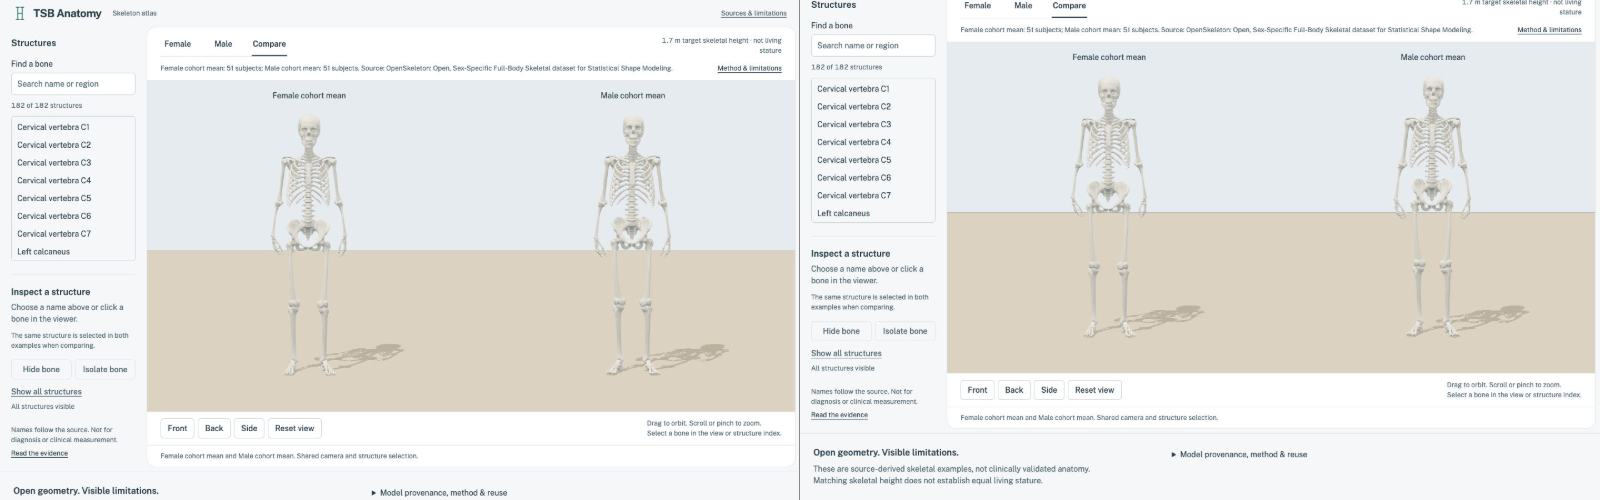
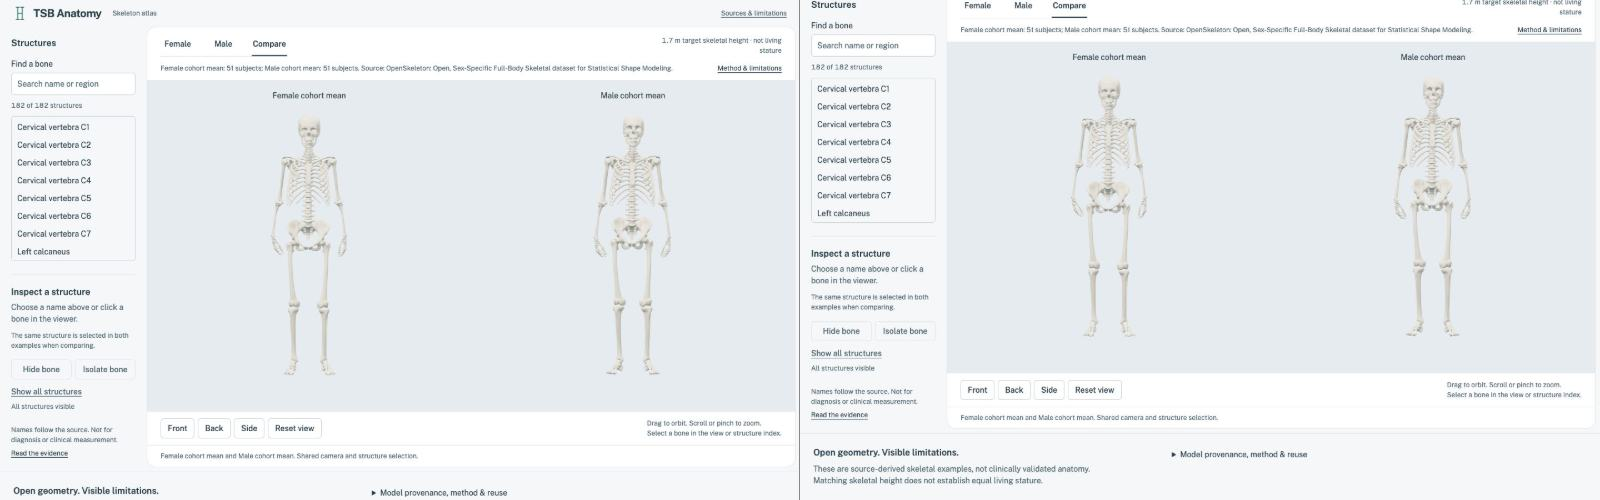
Remove visible ground and shadows while preserving standing pose

Changed region(s): [[0.0938, 0.48, 0.5, 0.84], [0.5938, 0.42, 1.0, 0.75]]

diff --git a/src/main.js b/src/main.js
@@ -85,44 +85,17 @@ function createRenderer() {
   renderer.outputColorSpace = THREE.SRGBColorSpace;
   renderer.toneMapping = THREE.ACESFilmicToneMapping;
   renderer.toneMappingExposure = 1.1;
-  renderer.shadowMap.enabled = true;
-  renderer.shadowMap.type = THREE.PCFSoftShadowMap;
   renderer.domElement.tabIndex = 0;
   renderer.domElement.setAttribute('aria-label', 'Interactive skeleton. Arrow keys orbit; plus and minus zoom. Use the structure list to select bones without a pointer.');
   renderer.domElement.setAttribute('aria-describedby', 'camera-help viewer-status');
   ui.host.append(renderer.domElement);
   scene = new THREE.Scene();
-  // Presentation ground is not anatomy and never enters the bone picker/inventory.
-  const earth = new THREE.Mesh(
-    new THREE.PlaneGeometry(8, 8),
-    new THREE.MeshStandardMaterial({ color: '#aa9c84', roughness: 1, metalness: 0, side: THREE.DoubleSide }),
-  );
-  earth.name = 'earth-ground';
-  earth.rotation.x = -Math.PI / 2;
-  earth.position.y = state.manifest.pose.groundY;
-  earth.receiveShadow = true;
-  scene.add(earth);
-  // A ground-level outline remains legible in exact edge-on orthographic presets.
-  const groundEdge = new THREE.LineLoop(
-    new THREE.BufferGeometry().setFromPoints([
-      new THREE.Vector3(-4, earth.position.y, -4), new THREE.Vector3(4, earth.position.y, -4),
-      new THREE.Vector3(4, earth.position.y, 4), new THREE.Vector3(-4, earth.position.y, 4),
-    ]),
-    new THREE.LineBasicMaterial({ color: '#81745e' }),
-  );
-  scene.add(groundEdge);
   camera = new THREE.OrthographicCamera(-1, 1, 1, -1, .01, 100);
   camera.position.set(0, .85, 5);
   scene.add(new THREE.HemisphereLight('#ffffff', '#8799a6', 2.5));
   const key = new THREE.DirectionalLight('#fff6e6', 3.1);
   key.position.set(-2, 7, 3);
   key.target.position.set(0, .75, 0);
-  key.castShadow = true;
-  key.shadow.mapSize.set(2048, 2048);
-  Object.assign(key.shadow.camera, { left: -1.8, right: 1.8, top: 2, bottom: -1.8, near: .1, far: 12 });
-  key.shadow.bias = -.00005;
-  key.shadow.normalBias = .001;
-  key.shadow.camera.updateProjectionMatrix();
   scene.add(key.target);
   scene.add(key);
   const fill = new THREE.DirectionalLight('#e3efff', 1.8);
@@ -364,8 +337,6 @@ async function loadModel(meta) {
     node.userData.structureId = id;
     (Array.isArray(node.material) ? node.material : [node.material]).forEach((material) => oldMaterials.add(material));
     node.material = boneMaterial;
-    node.castShadow = true;
-    node.receiveShadow = true;
   });
   if (!meshes.length) throw new Error(`${meta.label} contains no bone meshes.`);
   oldMaterials.forEach((material) => material.dispose());
@@ -494,7 +465,6 @@ Object.defineProperty(window, '__atlas', {
     ready: state.ready, mode: state.mode, selected: state.selected,
     loadedModels: [...state.models.keys()], hidden: [...state.hidden], isolated: state.isolated,
     structures: state.structures.size, failures: [...state.failures],
-    groundY: scene?.getObjectByName('earth-ground')?.position.y,
     meshes: Object.fromEntries([...state.models].map(([id, model]) => [id, model.meshes.length])),
     visibleMeshes: Object.fromEntries([...state.models].map(([id, model]) => [id, model.root.visible ? model.meshes.filter((mesh) => mesh.visible).length : 0])),
   }),

diff --git a/README.md b/README.md
@@ -20,7 +20,7 @@ npm run dev
 The repository includes the generated models; viewing does not require Python or the raw CT-derived dataset. The initial load includes both detailed skeletons.
 
 - Switch between female, male and side-by-side comparison.
-- Drag to orbit and scroll to zoom. The default/reset view looks slightly down onto an earth-toned ground surface with cast shadows. Front/back/side remain exact orthographic inspection views, with a ground-level outline visible edge-on.
+- Drag to orbit and scroll to zoom. The default/reset view is slightly elevated; front/back/side are exact orthographic inspection views. Skeletons appear against the plain slate background, without a visible floor, ground outline or cast shadows.
 - Search/select a structure or click its geometry.
 - Hide a structure, isolate it, or restore all structures. Selection and visibility are shared across comparison views.
 - Focus the canvas and use arrow keys to orbit, `+`/`-` to zoom, and `Home` for the front view. Every structure is also selectable without the canvas.
@@ -36,7 +36,7 @@ The inventory covers the combined skull, mandible, vertebrae, ribs, sternum, sho
 
 Known topology findings in both means: `HandScaphoid_L`, `HandScaphoid_R`, `Head` and `Sacrum` are not watertight; `Femur_L` and `Femur_R` have inconsistent face winding. These are review targets, not silently repaired surfaces. Double-sided viewing does not fix the source topology. Sternum face **3731** (zero-based source face index) was removed only after verifying exactly zero area in all 51 contributing specimens of each sex.
 
-The viewer defaults to a **grounded standing display pose**: relaxed shoulder girdles, arms at sides, and both feet supported at the heel and medial/lateral forefoot. Bones articulate rigidly; arches are not flattened. One final whole-body uniform scale restores the 1.70 m skeletal height after planting the feet. These are estimated pose adjustments, not a validated neutral or weight-bearing stance. The original source-derived means remain unchanged in `data/derived/*.npz`.
+The viewer retains the **standing display pose**: relaxed shoulder girdles, arms at sides, and level heels/forefeet aligned to an invisible mathematical plane at Y=0. No earth or floor surface is rendered. Bones articulate rigidly; arches are not flattened. One whole-body uniform scale restores the 1.70 m skeletal height after foot placement. These are estimated pose adjustments, not a validated neutral or weight-bearing stance. The original source-derived means remain unchanged in `data/derived/*.npz`.
 
 ## How the averages are made
 
@@ -144,6 +144,6 @@ Preserve the reproducible source-derived baseline. A correction to an educationa
 
 ## Verified implementation
 
-The full source-to-mean pipeline passed in [generation run 40907748961](https://github.com/latentwill/TSB-Anatomy/actions/runs/40907748961), and the earlier arm-rig pipeline passed in [run 40987606969](https://github.com/latentwill/TSB-Anatomy/actions/runs/40987606969). The preserved means were subsequently re-exported in the grounded standing pose. Local asset verification and all ten geometric regression tests passed; exported heel/forefoot gaps are zero within float32 export precision. Production-browser inspection confirmed visible earth-ground contact, side-view foot/arch clearance and desktop/mobile presentation. Earlier checks covered picking, search, visibility controls and partial-load failure handling.
+The complete standing-pose generation pipeline passed in [run 40991422437](https://github.com/latentwill/TSB-Anatomy/actions/runs/40991422437). Asset verification and all ten geometric regression tests passed; heel/forefoot support gaps are zero within float32 export precision. Removing the displayed earth plane was a viewer-only change: models, joint transforms, height and references were unchanged. Production-browser checks confirmed the plain-background standing and side views, 182 structures per model, and isolate/restore behavior without runtime errors.
 
 The viewer follows the requested [Taste Skill](https://github.com/leonxlnx/taste-skill) app workflow. Its final production inspection reported **0 failures and 0 warnings** at 1440, 768 and 390 pixels; see [DESIGN.md](DESIGN.md) and `.taste-skill/inspect/`. The production build retains a Three.js bundle-size advisory. These checks establish software behavior, not clinical validity.

diff --git a/DESIGN.md b/DESIGN.md
@@ -27,8 +27,6 @@ Data/job inventory: (1) two sex-specific model entries; (2) manifest subject cou
 | Error ink | `#873c2b` |
 | Bone material | `#e4dbc9` |
 | Selected bone material | `#5caaa0` |
-| Earth ground material | `#aa9c84` |
-| Ground-level outline | `#81745e` |
 
 The geometry uses physically lit Three.js standard materials. Its perceived colors vary with lighting, orientation, and tone mapping; CSS controls use the tokens directly.
 
@@ -56,7 +54,7 @@ Desktop grid arithmetic: 264px palette + flexible sheet + 8px outer inset = wind
 
 Selecting a name or mesh colors the corresponding structure in every loaded example. Comparison uses two independent scissored viewports with one orthographic camera: rotation and zoom are shared, but neither skeleton can occlude the other in side views. Labels remain over their own viewport, and picking is mapped into the clicked viewport. Front faces anterior +Z; back looks from −Z; side looks from +X. Changing displayed examples reframes them; hiding and isolating bones preserve the camera. Show all structures restores visibility without discarding selection.
 
-The default/reset camera is slightly elevated so the feet visibly sit on an earth-toned plane at the manifest's `pose.groundY` (Y=0). A single shadow-casting key light provides contact/depth cues; each comparison viewport renders only its own model and shadow. Exact front/back/side views remain orthographic, with an edge-on ground outline. Ground geometry is presentation-only: it is excluded from bone counts, selection and anatomical exports, and remains visible when bones are hidden or isolated.
+The default/reset camera remains slightly elevated. The user requested standing skeletons on nothing: the slate background is uninterrupted, with no earth plane, ground outline or cast shadows. Exact front/back/side views remain orthographic. The generated models still align heels and forefeet to the invisible Y=0 support reference; removing presentation geometry does not change anatomy or pose.
 
 Pointer drag orbits; scroll or pinch zooms; OrbitControls supports pan. With canvas focus, arrow keys orbit, plus/minus zoom, and Home restores the front view. The searchable native selector is the equivalent non-pointer path to selecting geometry. Rendering is requested only for changes, loads, resize, or input; there is no continuous idle animation.
 
@@ -112,6 +110,6 @@ Top three observed problems and resolutions:
 2. Model labels crowded each other at tablet width. Separate viewport-centered labels now remain distinct in the final tablet screenshot.
 3. Hiding the mobile caption's line break joined adjacent words. Explicit whitespace now preserves the sentence boundary.
 
-Remaining tradeoff: both detailed GLBs load initially (about 42 MB total), and on-demand frames also render a shadow map; physical low-end mobile performance is not claimed. The default models now have an estimated grounded standing pose with shoulder-girdle and lower-limb articulation. Original source-pose means remain as references; known mesh defects, estimated pivots and unvalidated weight-bearing biomechanics are explicit limitations.
+Remaining tradeoff: both detailed GLBs load initially (about 42 MB total); physical low-end mobile performance is not claimed. Shadow-map rendering was removed with the earth plane. The estimated standing pose, shoulder-girdle/lower-limb articulation and source-pose references are unchanged; known mesh defects and unvalidated biomechanics remain explicit limitations.
 
-Grounding inspection confirmed both heels/forefeet meet the plane, arches remain raised in side close-up, shoulders are relaxed without changing the torso/spine relationship, and the desktop/mobile surfaces show the models standing on earth rather than floating. The first oblique default produced a stepped horizon between comparison panes; removing default camera yaw aligns that horizon. Bone inventory remains 182 per model. The final source detector found no issues. These checks establish presentation and geometric invariants, not clinical correctness.
+Production-browser inspection confirmed the floor-free default and side views, preserved foot alignment, 182 meshes per model, and isolate/restore behavior without runtime errors. The source detector found no issues. These checks establish presentation and interaction, not clinical correctness.

diff --git a/PRODUCT.md b/PRODUCT.md
@@ -22,7 +22,7 @@ The confirmed job is practical anatomy inspection and reuse of open geometry. A 
 
 - Consume the generated manifest and real GLB geometry in public/models; do not invent anatomy or substitute illustrative assets.
 - Female, male, and side-by-side comparison share a camera and structure selection. Comparison is the initial view when both real models load; a single successful model remains usable if the other fails.
-- Models use meters, Y-up, ground at Y=0, and anterior +Z. The manifest, rather than interface copy, supplies population counts, review status, height, and methodological limitations.
+- Models use meters, Y-up, an invisible support reference at Y=0, and anterior +Z. No earth plane, floor outline or cast shadows are rendered. The manifest, rather than interface copy, supplies population counts, review status, height, and methodological limitations.
 - Matching skeletal height is not a measurement of living stature.
 - Tooling is MIT; derived model assets are CC BY-SA 4.0 with attribution to the upstream CC BY 4.0 OpenSkeleton source.
 - No paid services or paid generation; no modification to the separate thespiritualbody project.
